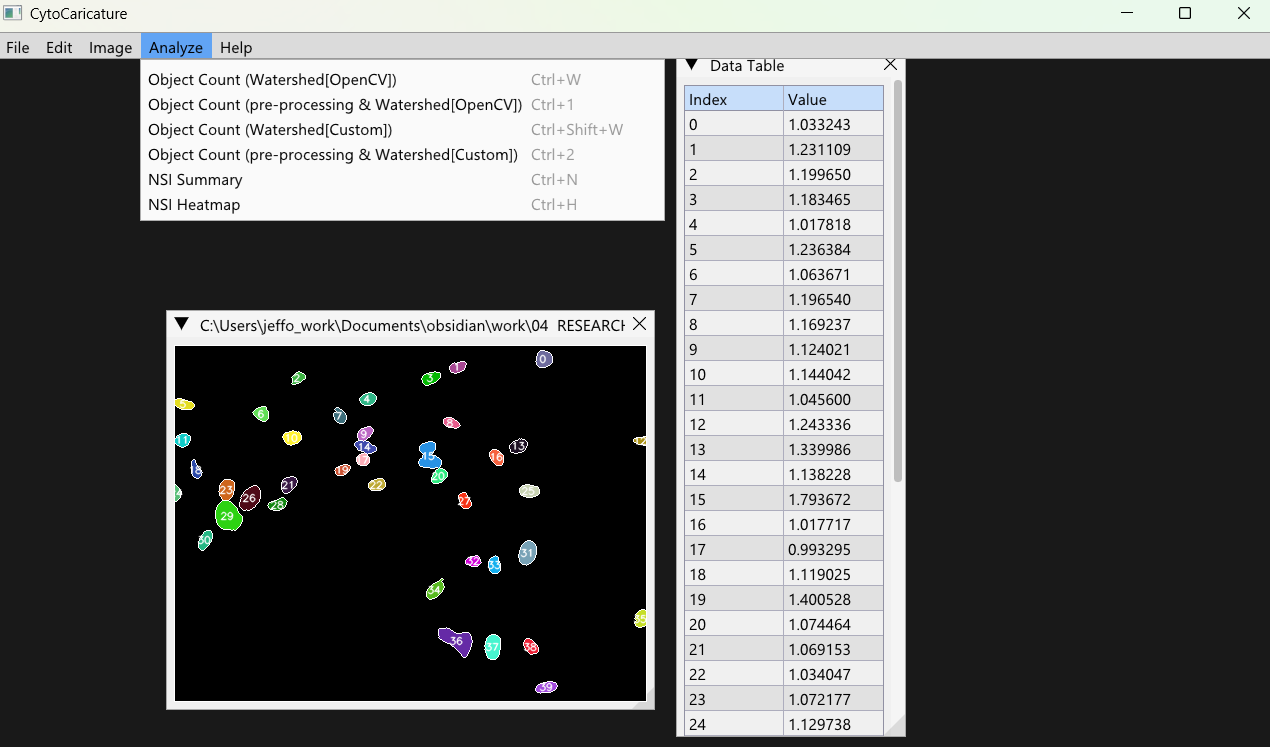
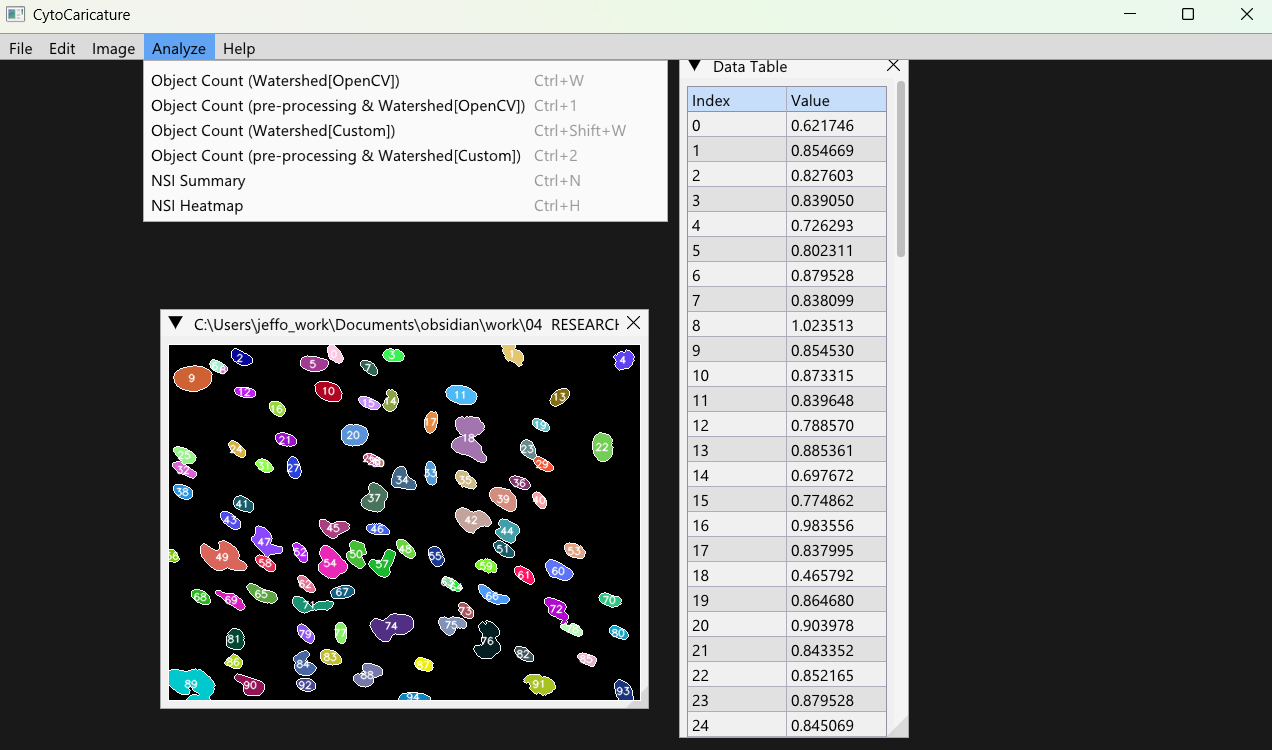
edit README.md

diff --git a/include/functiondec.h b/include/functiondec.h
@@ -240,6 +240,8 @@ WatershedOutput runCustomWatershed(const cv::Mat& originalImg)
 
     sureFg.convertTo(sureFg, CV_8U);
 
+    Mat closingKernel = getStructuringElement(MORPH_ELLIPSE, Size(7, 7)); 
+    morphologyEx(sureFg, sureFg, MORPH_CLOSE, closingKernel, Point(-1,-1), 1);
 
     Mat unknown;
     subtract(sureBg, sureFg, unknown);
@@ -392,7 +394,7 @@ std::vector<double> calculateNSI(const cv::Mat& markersArg) {
 
         // Avoid divide-by-zero
         if (area > 0)
-            nsis.push_back((perimeter * perimeter) / (4 * CV_PI * area));
+            nsis.push_back((4 * CV_PI * area) / (perimeter * perimeter));
         else
             nsis.push_back(0.0);
     }

diff --git a/README.md b/README.md
@@ -1,5 +1,5 @@
 
-[![Version](https://img.shields.io/badge/version-2.0.1-green.svg)](https://github.com/jeffock/cyto_caricature/releases)
+[![Version](https://img.shields.io/badge/release-v2.0.1-green.svg)](https://github.com/jeffock/cyto_caricature/releases)
 [![Docs](https://img.shields.io/badge/documentation-WIP-orange.svg)]()
 
 **CytoCaricature** is a research-driven tool for advanced cell analysis, originally developed to meet specific needs in scientific imaging. While tailored for cell analysis, it can be applied to a wide range of image-processing tasks.
